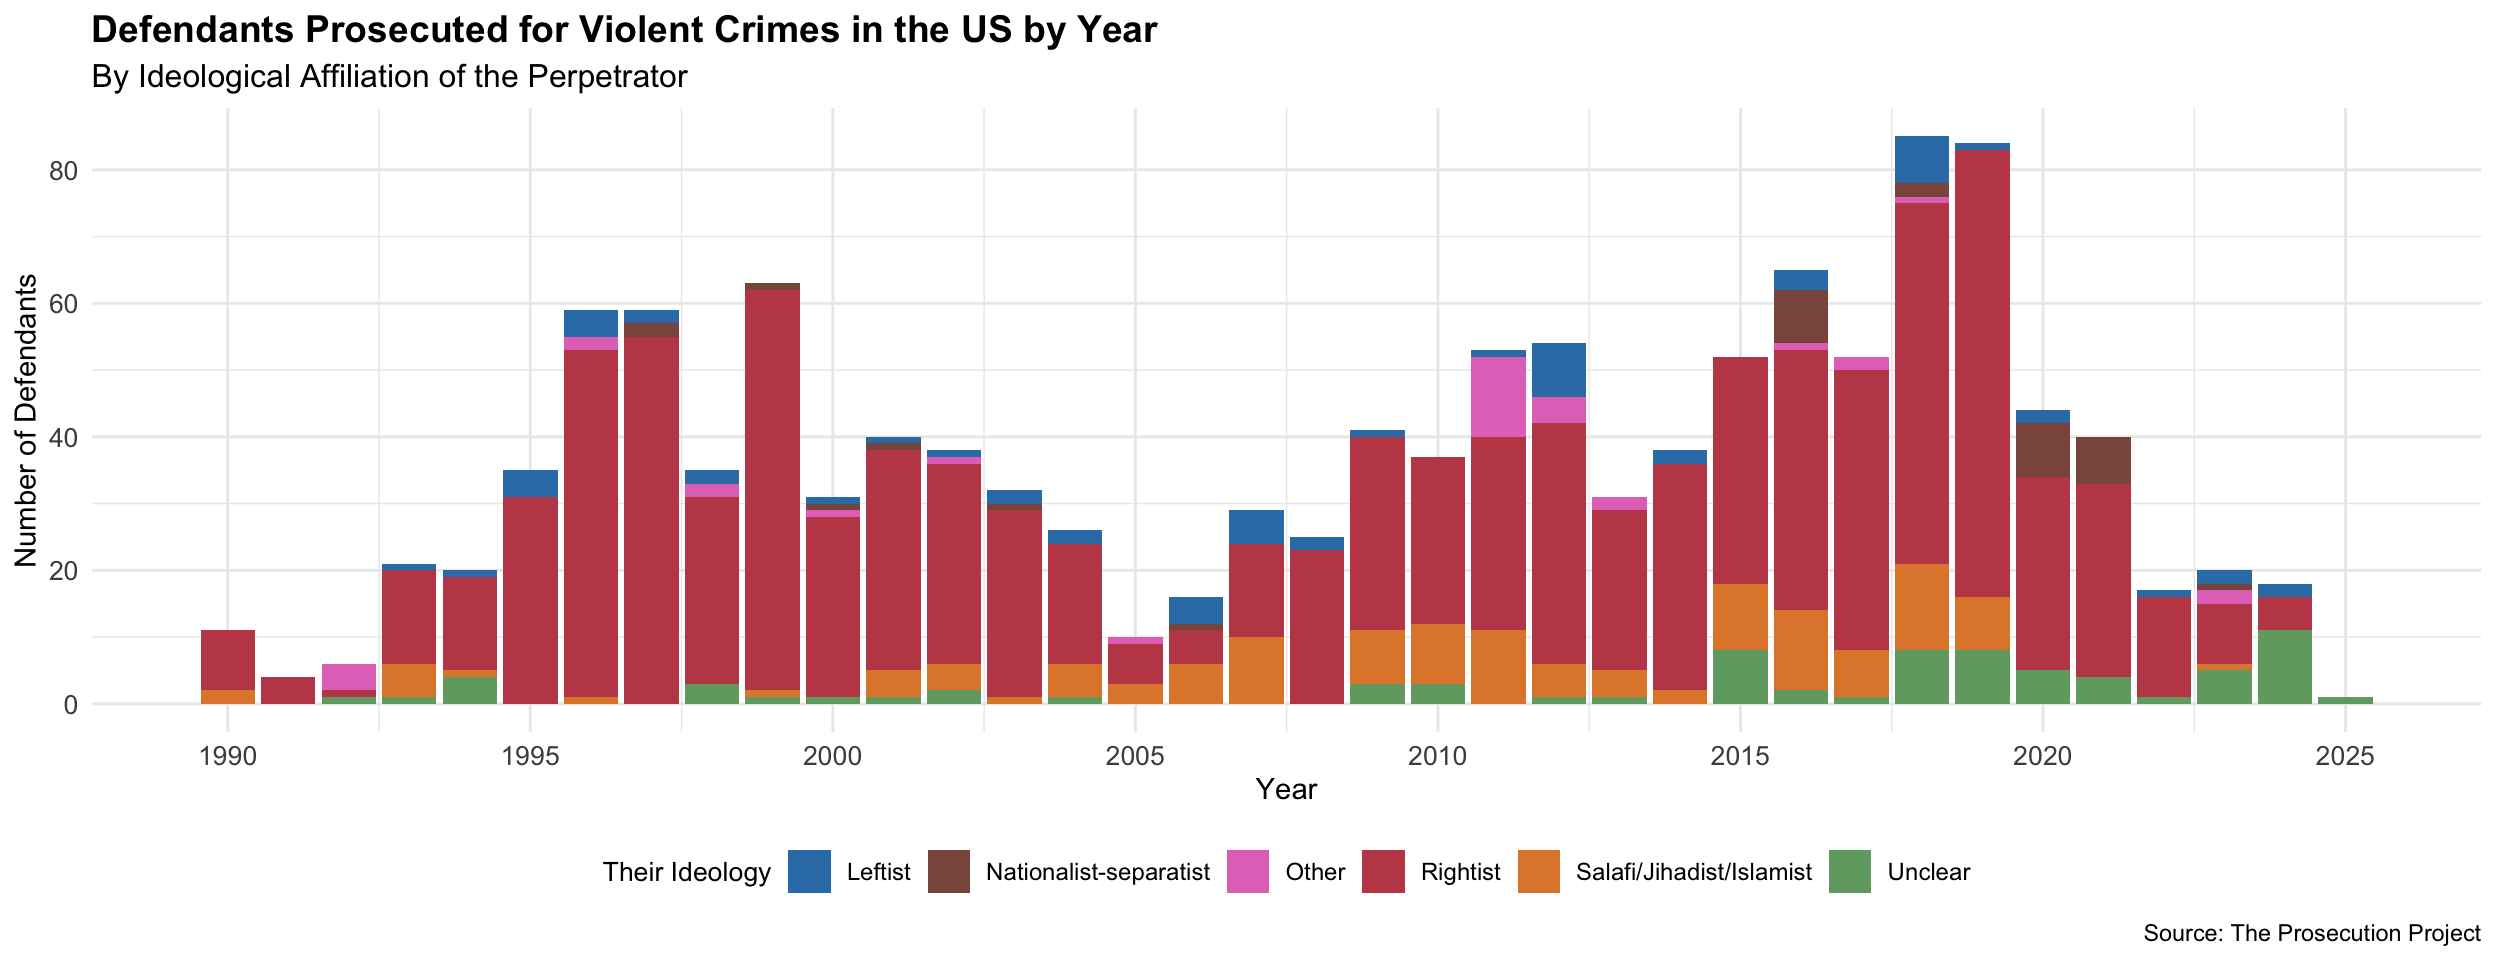
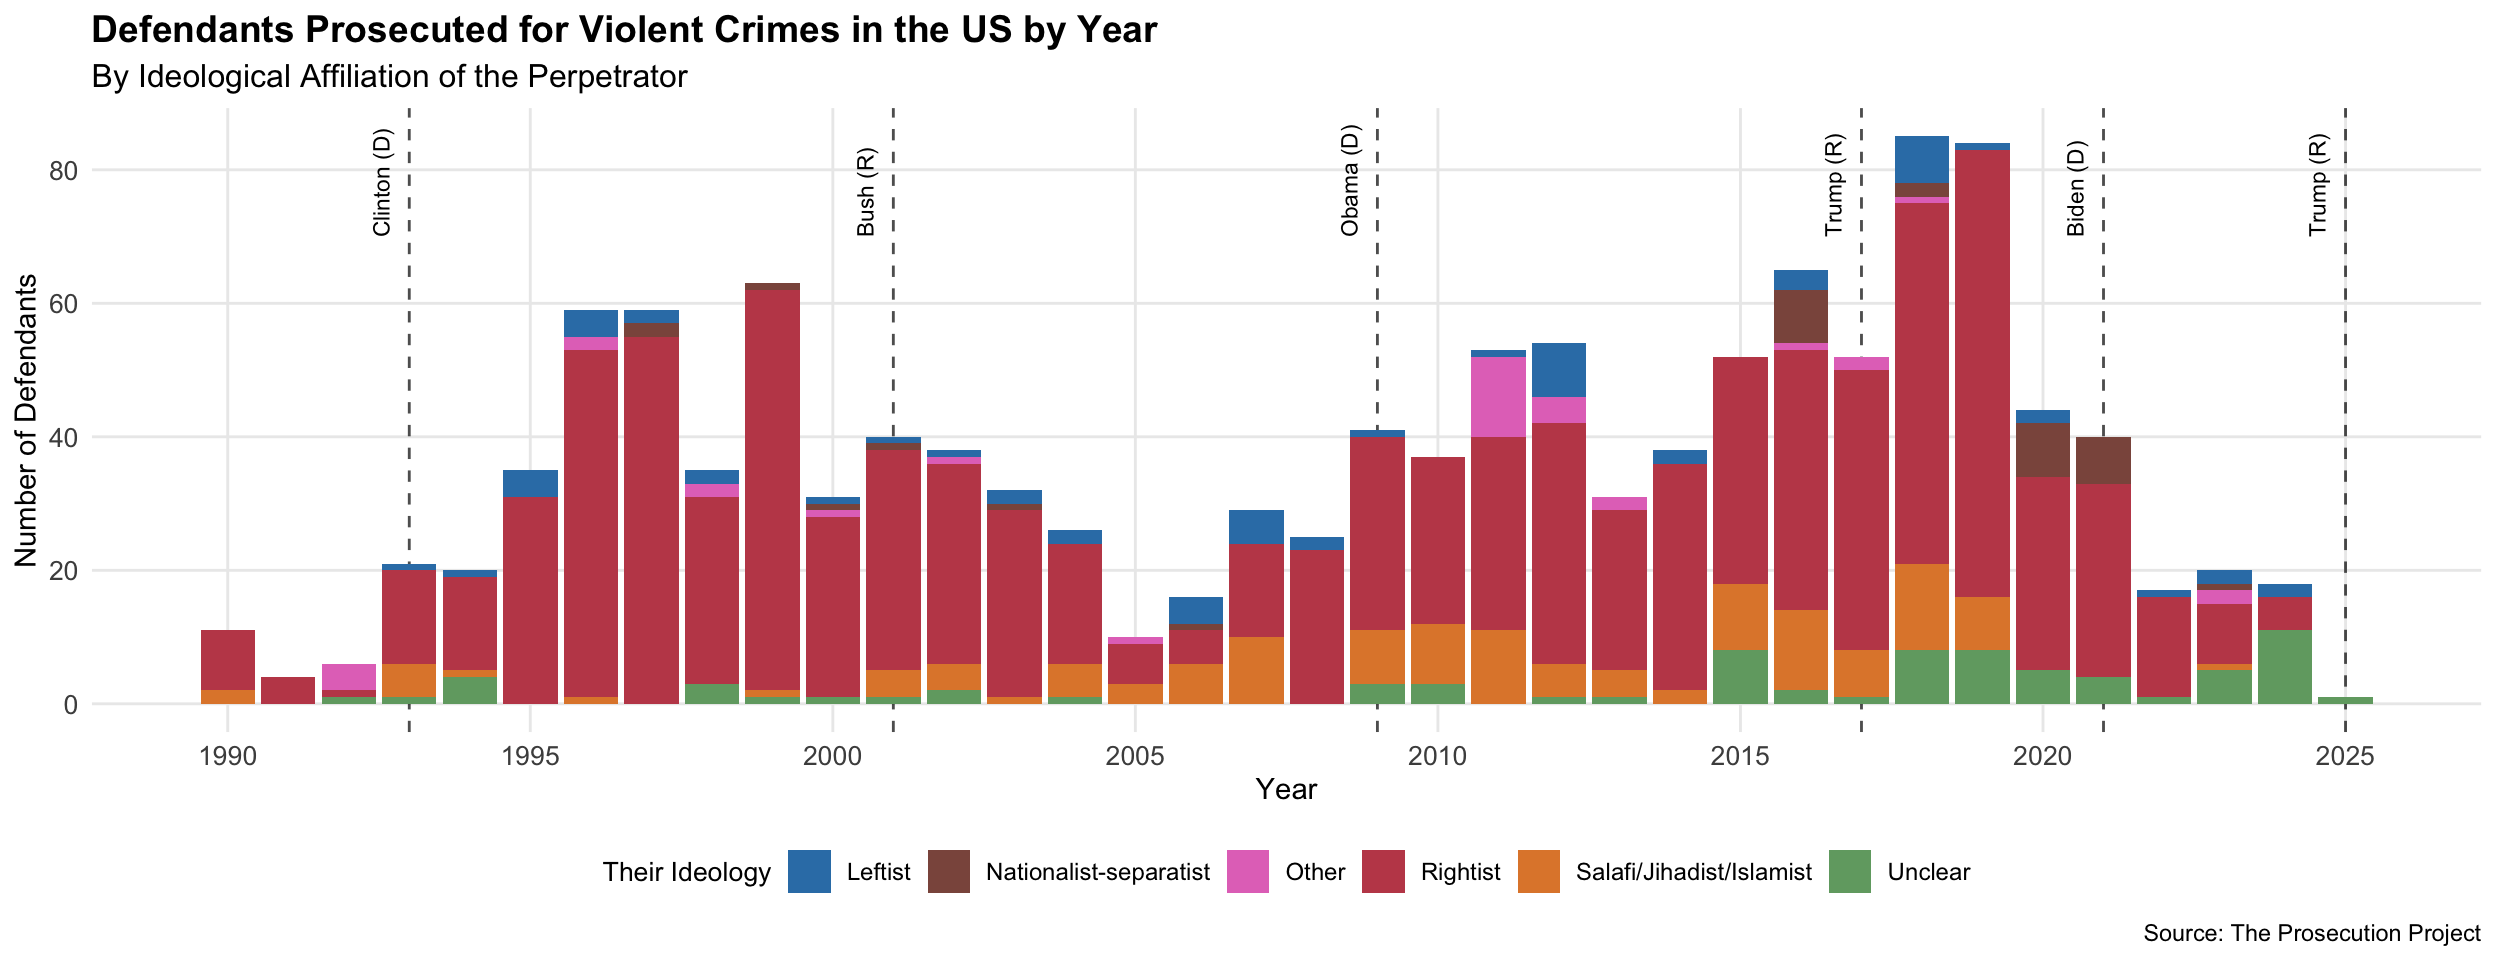
add presidents to graph

diff --git a/violence.html b/violence.html
@@ -698,36 +698,46 @@ pre > code.sourceCode > span > a:first-child::before { text-decoration: underlin
 <span id="cb15-6"><a href="#cb15-6" aria-hidden="true" tabindex="-1"></a>    <span class="fu">filter</span>(<span class="sc">!</span><span class="fu">is.na</span>(year)) <span class="sc">|&gt;</span></span>
 <span id="cb15-7"><a href="#cb15-7" aria-hidden="true" tabindex="-1"></a>    <span class="fu">count</span>(year, ideology_simple, <span class="at">name =</span> <span class="st">"prosecutions"</span>)</span>
 <span id="cb15-8"><a href="#cb15-8" aria-hidden="true" tabindex="-1"></a></span>
-<span id="cb15-9"><a href="#cb15-9" aria-hidden="true" tabindex="-1"></a><span class="fu">ggplot</span>(df_yearly, <span class="fu">aes</span>(<span class="at">x =</span> year, <span class="at">y =</span> prosecutions, <span class="at">fill =</span> ideology_simple)) <span class="sc">+</span></span>
-<span id="cb15-10"><a href="#cb15-10" aria-hidden="true" tabindex="-1"></a>    <span class="fu">geom_col</span>() <span class="sc">+</span></span>
-<span id="cb15-11"><a href="#cb15-11" aria-hidden="true" tabindex="-1"></a>    <span class="fu">scale_fill_manual</span>(<span class="at">values =</span> <span class="fu">c</span>(</span>
-<span id="cb15-12"><a href="#cb15-12" aria-hidden="true" tabindex="-1"></a>        <span class="st">"Rightist"</span> <span class="ot">=</span> <span class="st">"#c14a58ff"</span>,                    <span class="co"># Red for Rightist</span></span>
-<span id="cb15-13"><a href="#cb15-13" aria-hidden="true" tabindex="-1"></a>        <span class="st">"Leftist"</span> <span class="ot">=</span> <span class="st">"#337fb5ff"</span>,                     <span class="co"># Blue for Leftist  </span></span>
-<span id="cb15-14"><a href="#cb15-14" aria-hidden="true" tabindex="-1"></a>        <span class="st">"Salafi/Jihadist/Islamist"</span> <span class="ot">=</span> <span class="st">"#e08738ff"</span>,    <span class="co"># Orange</span></span>
-<span id="cb15-15"><a href="#cb15-15" aria-hidden="true" tabindex="-1"></a>        <span class="st">"Unclear"</span> <span class="ot">=</span> <span class="st">"#71a771ff"</span>,                     <span class="co"># Green</span></span>
-<span id="cb15-16"><a href="#cb15-16" aria-hidden="true" tabindex="-1"></a>        <span class="st">"Nationalist-separatist"</span> <span class="ot">=</span> <span class="st">"#8c564b"</span>,      <span class="co"># Brown</span></span>
-<span id="cb15-17"><a href="#cb15-17" aria-hidden="true" tabindex="-1"></a>        <span class="st">"Other"</span> <span class="ot">=</span> <span class="st">"#e377c2"</span>                        <span class="co"># Pink</span></span>
-<span id="cb15-18"><a href="#cb15-18" aria-hidden="true" tabindex="-1"></a>    )) <span class="sc">+</span></span>
-<span id="cb15-19"><a href="#cb15-19" aria-hidden="true" tabindex="-1"></a>    <span class="fu">scale_x_continuous</span>(<span class="at">breaks =</span> scales<span class="sc">::</span><span class="fu">pretty_breaks</span>(<span class="at">n =</span> <span class="dv">8</span>)) <span class="sc">+</span></span>
-<span id="cb15-20"><a href="#cb15-20" aria-hidden="true" tabindex="-1"></a>    <span class="fu">labs</span>(</span>
-<span id="cb15-21"><a href="#cb15-21" aria-hidden="true" tabindex="-1"></a>        <span class="at">title =</span> <span class="st">"Defendants Prosecuted for Violent Crimes in the US by Year"</span>,</span>
-<span id="cb15-22"><a href="#cb15-22" aria-hidden="true" tabindex="-1"></a>        <span class="at">subtitle =</span> <span class="st">"By Ideological Affiliation of the Perpetrator"</span>,</span>
-<span id="cb15-23"><a href="#cb15-23" aria-hidden="true" tabindex="-1"></a>        <span class="at">x =</span> <span class="st">"Year"</span>,</span>
-<span id="cb15-24"><a href="#cb15-24" aria-hidden="true" tabindex="-1"></a>        <span class="at">y =</span> <span class="st">"Number of Defendants"</span>,</span>
-<span id="cb15-25"><a href="#cb15-25" aria-hidden="true" tabindex="-1"></a>        <span class="at">fill =</span> <span class="st">"Their Ideology"</span>,</span>
-<span id="cb15-26"><a href="#cb15-26" aria-hidden="true" tabindex="-1"></a>        <span class="at">caption =</span> <span class="st">"Source: The Prosecution Project"</span></span>
-<span id="cb15-27"><a href="#cb15-27" aria-hidden="true" tabindex="-1"></a>    ) <span class="sc">+</span></span>
-<span id="cb15-28"><a href="#cb15-28" aria-hidden="true" tabindex="-1"></a>    <span class="fu">guides</span>(<span class="at">fill =</span> <span class="fu">guide_legend</span>(<span class="at">ncol =</span> <span class="dv">6</span>)) <span class="sc">+</span></span>
-<span id="cb15-29"><a href="#cb15-29" aria-hidden="true" tabindex="-1"></a>    <span class="fu">theme_minimal</span>() <span class="sc">+</span></span>
-<span id="cb15-30"><a href="#cb15-30" aria-hidden="true" tabindex="-1"></a>    <span class="fu">theme</span>(</span>
-<span id="cb15-31"><a href="#cb15-31" aria-hidden="true" tabindex="-1"></a>        <span class="at">plot.title =</span> <span class="fu">element_text</span>(<span class="at">size =</span> <span class="dv">14</span>, <span class="at">face =</span> <span class="st">"bold"</span>),</span>
-<span id="cb15-32"><a href="#cb15-32" aria-hidden="true" tabindex="-1"></a>        <span class="at">plot.subtitle =</span> <span class="fu">element_text</span>(<span class="at">size =</span> <span class="dv">12</span>),</span>
-<span id="cb15-33"><a href="#cb15-33" aria-hidden="true" tabindex="-1"></a>        <span class="at">axis.text =</span> <span class="fu">element_text</span>(<span class="at">size =</span> <span class="dv">10</span>),</span>
-<span id="cb15-34"><a href="#cb15-34" aria-hidden="true" tabindex="-1"></a>        <span class="at">axis.title =</span> <span class="fu">element_text</span>(<span class="at">size =</span> <span class="dv">11</span>),</span>
-<span id="cb15-35"><a href="#cb15-35" aria-hidden="true" tabindex="-1"></a>        <span class="at">legend.position =</span> <span class="st">"bottom"</span>,</span>
-<span id="cb15-36"><a href="#cb15-36" aria-hidden="true" tabindex="-1"></a>        <span class="at">legend.title =</span> <span class="fu">element_text</span>(<span class="at">size =</span> <span class="dv">10</span>),</span>
-<span id="cb15-37"><a href="#cb15-37" aria-hidden="true" tabindex="-1"></a>        <span class="at">legend.text =</span> <span class="fu">element_text</span>(<span class="at">size =</span> <span class="dv">9</span>)</span>
-<span id="cb15-38"><a href="#cb15-38" aria-hidden="true" tabindex="-1"></a>    )  </span></code><button title="Copy to Clipboard" class="code-copy-button"><i class="bi"></i></button></pre></div>
+<span id="cb15-9"><a href="#cb15-9" aria-hidden="true" tabindex="-1"></a>presidents <span class="ot">&lt;-</span> <span class="fu">tibble</span>(</span>
+<span id="cb15-10"><a href="#cb15-10" aria-hidden="true" tabindex="-1"></a>  <span class="at">year =</span> <span class="fu">c</span>(<span class="dv">1993</span>L, <span class="dv">2001</span>L, <span class="dv">2009</span>L, <span class="dv">2017</span>L, <span class="dv">2021</span>L, <span class="dv">2025</span>L),</span>
+<span id="cb15-11"><a href="#cb15-11" aria-hidden="true" tabindex="-1"></a>  <span class="at">president =</span> <span class="fu">c</span>(<span class="st">"Clinton (D)"</span>, <span class="st">"Bush (R)"</span>, <span class="st">"Obama (D)"</span>, <span class="st">"Trump (R)"</span>, <span class="st">"Biden (D)"</span>, <span class="st">"Trump (R)"</span>)</span>
+<span id="cb15-12"><a href="#cb15-12" aria-hidden="true" tabindex="-1"></a>)</span>
+<span id="cb15-13"><a href="#cb15-13" aria-hidden="true" tabindex="-1"></a></span>
+<span id="cb15-14"><a href="#cb15-14" aria-hidden="true" tabindex="-1"></a><span class="fu">ggplot</span>() <span class="sc">+</span></span>
+<span id="cb15-15"><a href="#cb15-15" aria-hidden="true" tabindex="-1"></a>    <span class="fu">geom_vline</span>(<span class="at">data =</span> presidents, <span class="fu">aes</span>(<span class="at">xintercept =</span> year), </span>
+<span id="cb15-16"><a href="#cb15-16" aria-hidden="true" tabindex="-1"></a>               <span class="at">color =</span> <span class="st">"black"</span>, <span class="at">linetype =</span> <span class="st">"dashed"</span>, <span class="at">alpha =</span> <span class="fl">0.7</span>) <span class="sc">+</span></span>
+<span id="cb15-17"><a href="#cb15-17" aria-hidden="true" tabindex="-1"></a>    <span class="fu">geom_text</span>(<span class="at">data =</span> presidents, <span class="fu">aes</span>(<span class="at">x =</span> year, <span class="at">y =</span> <span class="dv">70</span>, <span class="at">label =</span> president), </span>
+<span id="cb15-18"><a href="#cb15-18" aria-hidden="true" tabindex="-1"></a>              <span class="at">vjust =</span> <span class="sc">-</span><span class="fl">1.2</span>, <span class="at">hjust =</span> <span class="dv">0</span>, <span class="at">angle =</span> <span class="dv">90</span>, <span class="at">size =</span> <span class="dv">3</span>, <span class="at">color =</span> <span class="st">"black"</span>) <span class="sc">+</span></span>
+<span id="cb15-19"><a href="#cb15-19" aria-hidden="true" tabindex="-1"></a>    <span class="fu">geom_col</span>(<span class="at">data =</span> df_yearly, <span class="fu">aes</span>(<span class="at">x =</span> year, <span class="at">y =</span> prosecutions, <span class="at">fill =</span> ideology_simple)) <span class="sc">+</span></span>
+<span id="cb15-20"><a href="#cb15-20" aria-hidden="true" tabindex="-1"></a>    <span class="fu">scale_fill_manual</span>(<span class="at">values =</span> <span class="fu">c</span>(</span>
+<span id="cb15-21"><a href="#cb15-21" aria-hidden="true" tabindex="-1"></a>        <span class="st">"Rightist"</span> <span class="ot">=</span> <span class="st">"#c14a58ff"</span>,                    <span class="co"># Red for Rightist</span></span>
+<span id="cb15-22"><a href="#cb15-22" aria-hidden="true" tabindex="-1"></a>        <span class="st">"Leftist"</span> <span class="ot">=</span> <span class="st">"#337fb5ff"</span>,                     <span class="co"># Blue for Leftist  </span></span>
+<span id="cb15-23"><a href="#cb15-23" aria-hidden="true" tabindex="-1"></a>        <span class="st">"Salafi/Jihadist/Islamist"</span> <span class="ot">=</span> <span class="st">"#e08738ff"</span>,    <span class="co"># Orange</span></span>
+<span id="cb15-24"><a href="#cb15-24" aria-hidden="true" tabindex="-1"></a>        <span class="st">"Unclear"</span> <span class="ot">=</span> <span class="st">"#71a771ff"</span>,                     <span class="co"># Green</span></span>
+<span id="cb15-25"><a href="#cb15-25" aria-hidden="true" tabindex="-1"></a>        <span class="st">"Nationalist-separatist"</span> <span class="ot">=</span> <span class="st">"#8c564b"</span>,      <span class="co"># Brown</span></span>
+<span id="cb15-26"><a href="#cb15-26" aria-hidden="true" tabindex="-1"></a>        <span class="st">"Other"</span> <span class="ot">=</span> <span class="st">"#e377c2"</span>                        <span class="co"># Pink</span></span>
+<span id="cb15-27"><a href="#cb15-27" aria-hidden="true" tabindex="-1"></a>    )) <span class="sc">+</span></span>
+<span id="cb15-28"><a href="#cb15-28" aria-hidden="true" tabindex="-1"></a>    <span class="fu">scale_x_continuous</span>(<span class="at">breaks =</span> scales<span class="sc">::</span><span class="fu">pretty_breaks</span>(<span class="at">n =</span> <span class="dv">8</span>)) <span class="sc">+</span></span>
+<span id="cb15-29"><a href="#cb15-29" aria-hidden="true" tabindex="-1"></a>    <span class="fu">labs</span>(</span>
+<span id="cb15-30"><a href="#cb15-30" aria-hidden="true" tabindex="-1"></a>        <span class="at">title =</span> <span class="st">"Defendants Prosecuted for Violent Crimes in the US by Year"</span>,</span>
+<span id="cb15-31"><a href="#cb15-31" aria-hidden="true" tabindex="-1"></a>        <span class="at">subtitle =</span> <span class="st">"By Ideological Affiliation of the Perpetrator"</span>,</span>
+<span id="cb15-32"><a href="#cb15-32" aria-hidden="true" tabindex="-1"></a>        <span class="at">x =</span> <span class="st">"Year"</span>,</span>
+<span id="cb15-33"><a href="#cb15-33" aria-hidden="true" tabindex="-1"></a>        <span class="at">y =</span> <span class="st">"Number of Defendants"</span>,</span>
+<span id="cb15-34"><a href="#cb15-34" aria-hidden="true" tabindex="-1"></a>        <span class="at">fill =</span> <span class="st">"Their Ideology"</span>,</span>
+<span id="cb15-35"><a href="#cb15-35" aria-hidden="true" tabindex="-1"></a>        <span class="at">caption =</span> <span class="st">"Source: The Prosecution Project"</span></span>
+<span id="cb15-36"><a href="#cb15-36" aria-hidden="true" tabindex="-1"></a>    ) <span class="sc">+</span></span>
+<span id="cb15-37"><a href="#cb15-37" aria-hidden="true" tabindex="-1"></a>    <span class="fu">guides</span>(<span class="at">fill =</span> <span class="fu">guide_legend</span>(<span class="at">ncol =</span> <span class="dv">6</span>)) <span class="sc">+</span></span>
+<span id="cb15-38"><a href="#cb15-38" aria-hidden="true" tabindex="-1"></a>    <span class="fu">theme_minimal</span>() <span class="sc">+</span></span>
+<span id="cb15-39"><a href="#cb15-39" aria-hidden="true" tabindex="-1"></a>    <span class="fu">theme</span>(</span>
+<span id="cb15-40"><a href="#cb15-40" aria-hidden="true" tabindex="-1"></a>        <span class="at">plot.title =</span> <span class="fu">element_text</span>(<span class="at">size =</span> <span class="dv">14</span>, <span class="at">face =</span> <span class="st">"bold"</span>),</span>
+<span id="cb15-41"><a href="#cb15-41" aria-hidden="true" tabindex="-1"></a>        <span class="at">plot.subtitle =</span> <span class="fu">element_text</span>(<span class="at">size =</span> <span class="dv">12</span>),</span>
+<span id="cb15-42"><a href="#cb15-42" aria-hidden="true" tabindex="-1"></a>        <span class="at">axis.text =</span> <span class="fu">element_text</span>(<span class="at">size =</span> <span class="dv">10</span>),</span>
+<span id="cb15-43"><a href="#cb15-43" aria-hidden="true" tabindex="-1"></a>        <span class="at">axis.title =</span> <span class="fu">element_text</span>(<span class="at">size =</span> <span class="dv">11</span>),</span>
+<span id="cb15-44"><a href="#cb15-44" aria-hidden="true" tabindex="-1"></a>        <span class="at">panel.grid.minor =</span> <span class="fu">element_blank</span>(),</span>
+<span id="cb15-45"><a href="#cb15-45" aria-hidden="true" tabindex="-1"></a>        <span class="at">legend.position =</span> <span class="st">"bottom"</span>,</span>
+<span id="cb15-46"><a href="#cb15-46" aria-hidden="true" tabindex="-1"></a>        <span class="at">legend.title =</span> <span class="fu">element_text</span>(<span class="at">size =</span> <span class="dv">10</span>),</span>
+<span id="cb15-47"><a href="#cb15-47" aria-hidden="true" tabindex="-1"></a>        <span class="at">legend.text =</span> <span class="fu">element_text</span>(<span class="at">size =</span> <span class="dv">9</span>)</span>
+<span id="cb15-48"><a href="#cb15-48" aria-hidden="true" tabindex="-1"></a>    )  </span></code><button title="Copy to Clipboard" class="code-copy-button"><i class="bi"></i></button></pre></div>
 </details>
 <div class="cell-output-display page-columns page-full">
 <div class="page-columns page-full">
